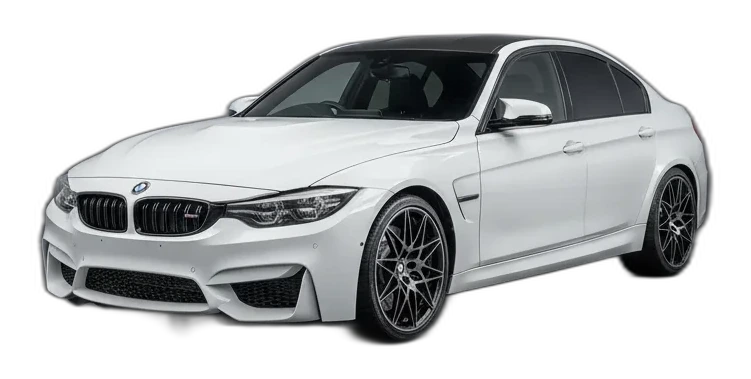
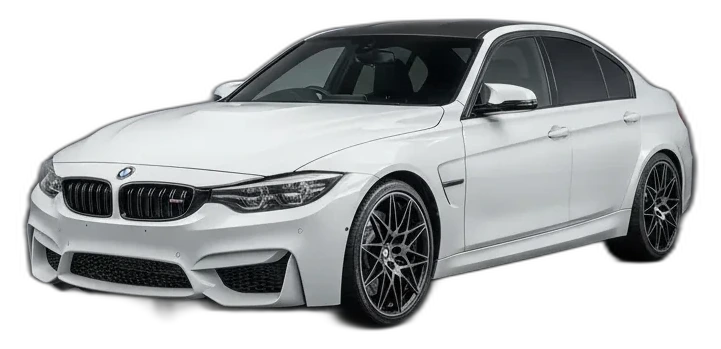
Enlarge car further, move hint below car on mobile, swap cursor→finger copy
- Tightened car cutout crop margin again (30px -> 15px) for an even bigger
  car within the same box.
- On mobile the reveal hint now sits below the car instead of overlapping
  its bottom edge (was overflowing off-screen for long text).
- Hint text now reads "Проведите пальцем по машине" on mobile/touch
  widths instead of "курсором" (cursor doesn't apply on touch).

Changed region(s): [[0.0305, 0.0287, 0.9764, 0.9456], [0.4882, 0.4011, 0.5187, 0.4298]]

diff --git a/config/client.ts b/config/client.ts
@@ -82,7 +82,7 @@ export const clientConfig: ClientConfig = {
     baseImage: "/car/base.webp",
     wrapImage: "/car/wrap.webp",
     blurData:
[2 lines of base64/hex data omitted]
   },
 
   services: [

diff --git a/components/Hero/CarReveal.module.css b/components/Hero/CarReveal.module.css
@@ -1,7 +1,7 @@
 .stage {
   position: relative;
   width: 100%;
-  aspect-ratio: 751 / 379;
+  aspect-ratio: 721 / 349;
   isolation: isolate;
 }
 
@@ -16,10 +16,10 @@
 .groundShadow {
   position: absolute;
   z-index: 0;
-  left: 10%;
-  right: 12%;
-  bottom: 4%;
-  height: 11%;
+  left: 6%;
+  right: 8%;
+  bottom: 1%;
+  height: 8%;
   background: radial-gradient(ellipse at center, rgba(0, 0, 0, 0.55) 0%, rgba(0, 0, 0, 0.28) 45%, transparent 75%);
   filter: blur(6px);
 }
@@ -60,6 +60,10 @@
   letter-spacing: 0.02em;
   pointer-events: none;
   white-space: nowrap;
+}
+
+.hintTextMobile {
+  display: none;
 }
 
 .done {
@@ -133,9 +137,24 @@
   background: rgba(255, 255, 255, 0.04);
 }
 
+@media (max-width: 900px) {
+  /* подсказка уходит под машину, а не поверх неё, и говорит про палец, не курсор */
+  .hint {
+    top: calc(100% + 14px);
+    bottom: auto;
+  }
+
+  .hintTextDesktop {
+    display: none;
+  }
+
+  .hintTextMobile {
+    display: inline;
+  }
+}
+
 @media (max-width: 640px) {
   .hint {
     font-size: 0.76rem;
-    bottom: 12px;
   }
 }

diff --git a/components/Hero/CarReveal.tsx b/components/Hero/CarReveal.tsx
@@ -410,7 +410,8 @@ export default function CarReveal({
           animate={{ opacity: 1, y: 0 }}
           transition={{ delay: 0.6, duration: 0.5 }}
         >
-          Проведите курсором по машине
+          <span className={styles.hintTextDesktop}>Проведите курсором по машине</span>
+          <span className={styles.hintTextMobile}>Проведите пальцем по машине</span>
         </motion.div>
       )}
 
